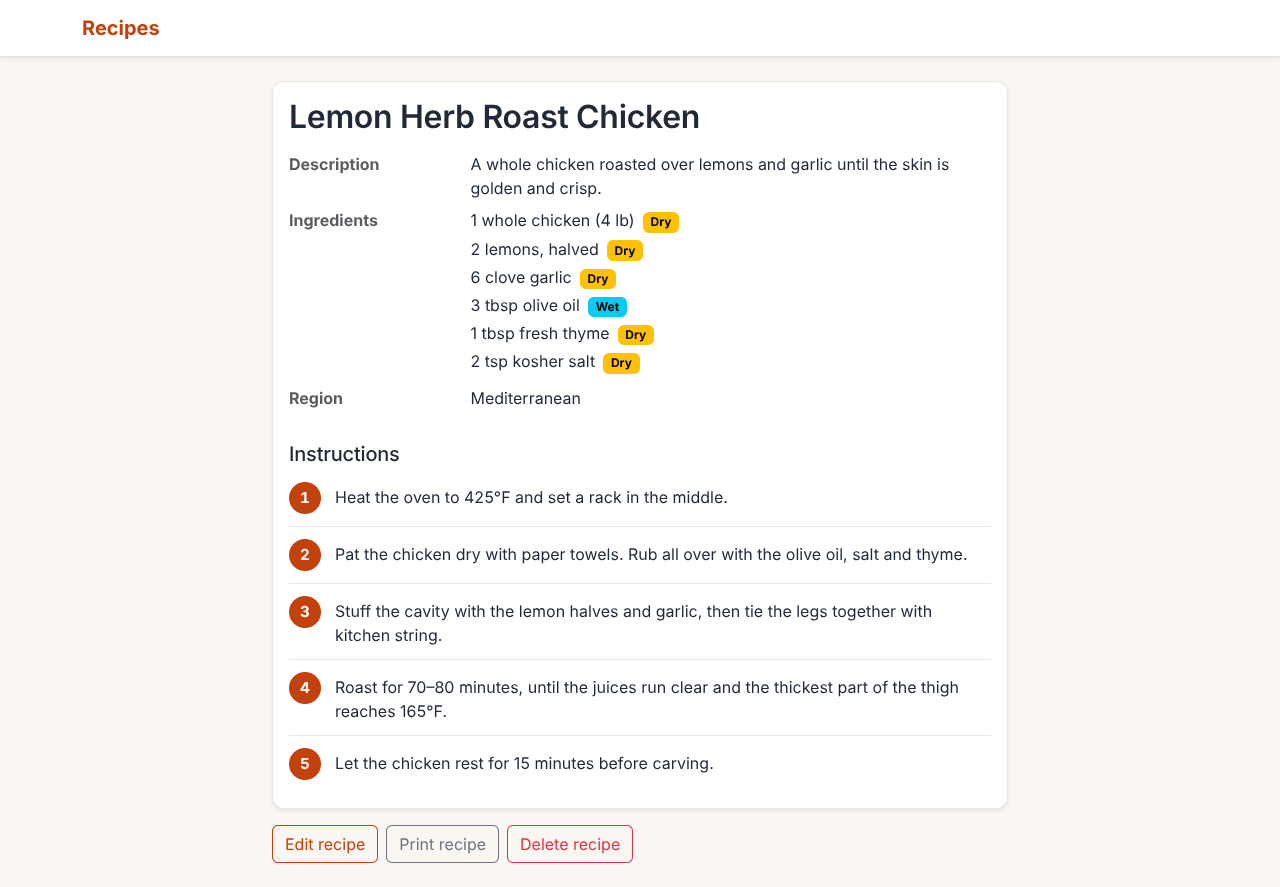
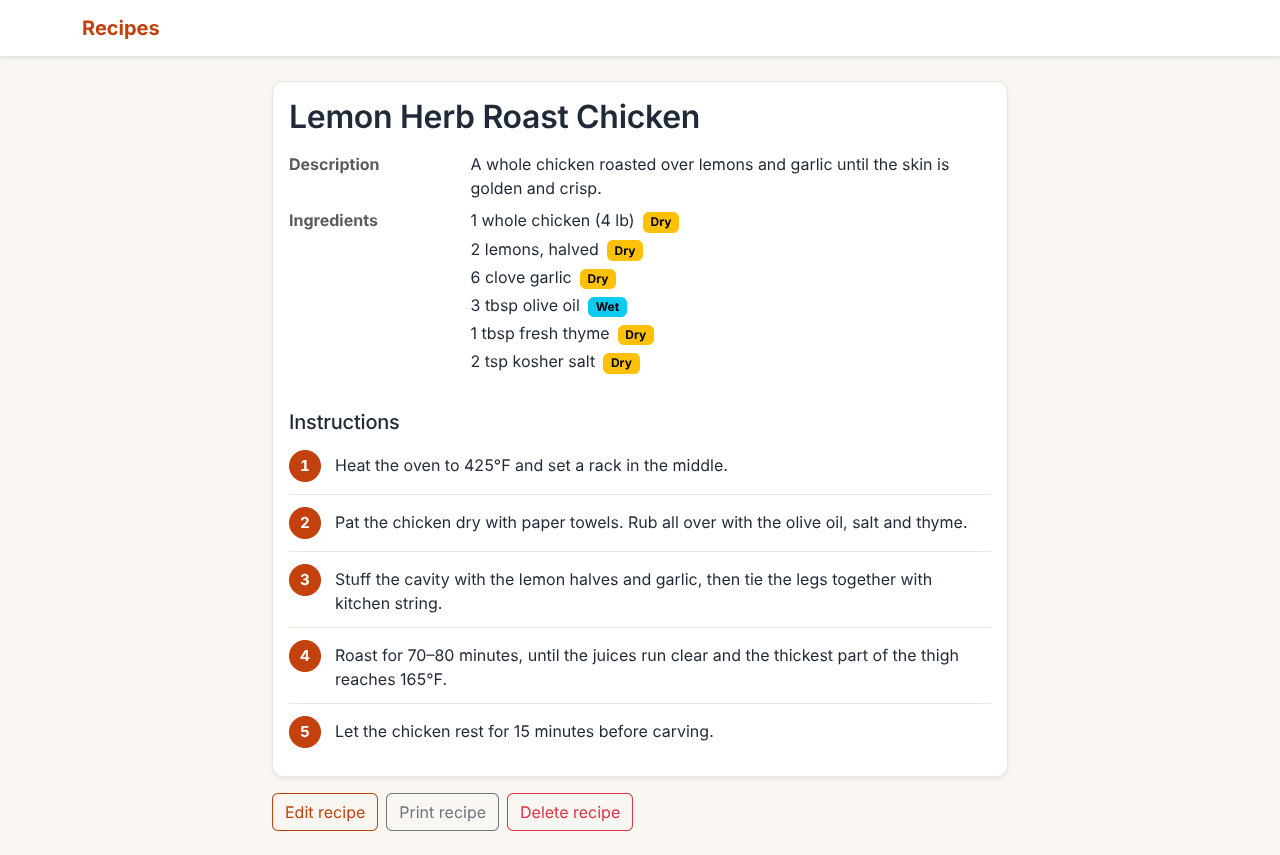
Remove the recipe region field
Region is no longer shown on recipe cards or the recipe page, and is gone
from the add/edit form. Saving a recipe no longer writes the column.

Recipe cards now show the first two lines of the description where the
region used to be.

The region column is left in the database so existing setups keep
working; the README notes how to drop it. README screenshots updated.

Claude-Session: https://claude.ai/code/session_0126EycmWWJfLkJ8pmSgetiX

diff --git a/pages/recipes/[id]/edit.js b/pages/recipes/[id]/edit.js
@@ -13,7 +13,6 @@ export default function EditRecipe({ recipe }) {
   const [recipeDescription, setRecipeDescription] = useState(recipe.description)
   const [recipeIngredients, setRecipeIngredients] = useState(() => ingredientRowsFor(recipe.ingredients))
   const [recipeInstructions, setRecipeInstructions] = useState(() => stepRowsFor(recipe.instructions))
-  const [recipeRegion, setRecipeRegion] = useState(recipe.region)
   const [recipeImagePath, setRecipeImagePath] = useState(recipe.file_path)
   const router = useRouter();
 
@@ -31,8 +30,6 @@ export default function EditRecipe({ recipe }) {
         onIngredientsChange={setRecipeIngredients}
         recipeInstructions={recipeInstructions}
         onInstructionsChange={setRecipeInstructions}
-        recipeRegion={recipeRegion}
-        onRegionChange={(evt) => setRecipeRegion(evt.target.value)}
         onRecipeImageChange={async (evt) => {
           const imageFile = evt.target.files[0]
           if (!imageFile) return
@@ -76,7 +73,6 @@ export default function EditRecipe({ recipe }) {
               description: recipeDescription,
               ingredients: serializeIngredients(recipeIngredients),
               instructions: serializeSteps(recipeInstructions),
-              region: recipeRegion,
               file_path: recipeImagePath,
             })
             .match({

diff --git a/pages/recipes/new.js b/pages/recipes/new.js
@@ -14,7 +14,6 @@ export default function NewRecipe() {
   const [recipeDescription, setRecipeDescription] = useState('')
   const [recipeIngredients, setRecipeIngredients] = useState([])
   const [recipeInstructions, setRecipeInstructions] = useState([''])
-  const [recipeRegion, setRecipeRegion] = useState('')
   const [recipeImagePath, setRecipeImagePath] = useState('')
   const router = useRouter();
   const session = useSession()?.session;
@@ -33,8 +32,6 @@ export default function NewRecipe() {
         onIngredientsChange={setRecipeIngredients}
         recipeInstructions={recipeInstructions}
         onInstructionsChange={setRecipeInstructions}
-        recipeRegion={recipeRegion}
-        onRegionChange={(evt) => setRecipeRegion(evt.target.value)}
         onRecipeImageChange={async (evt) => {
           const imageFile = evt.target.files[0]
           if (!imageFile) return
@@ -76,7 +73,6 @@ export default function NewRecipe() {
               description: recipeDescription,
               ingredients: serializeIngredients(recipeIngredients),
               instructions: serializeSteps(recipeInstructions),
-              region: recipeRegion,
               file_path: recipeImagePath,
               user_id: session.user.id,
             });

diff --git a/components/recipe-form.js b/components/recipe-form.js
@@ -10,8 +10,6 @@ export default function RecipeForm({
   onIngredientsChange,
   recipeInstructions,
   onInstructionsChange,
-  recipeRegion,
-  onRegionChange,
   onRecipeImageChange,
   onSubmit
 }) {
@@ -48,18 +46,6 @@ export default function RecipeForm({
 
       <div className="mb-3">
         <StepList value={recipeInstructions} onChange={onInstructionsChange} />
-      </div>
-
-      <div className="mb-3">
-        <label htmlFor="region" className="form-label">Recipe region</label>
-        <input
-          id="region"
-          name='region'
-          className="form-control"
-          value={recipeRegion}
-          placeholder='Region'
-          onChange={onRegionChange}
-        />
       </div>
 
       <div className="mb-4">

diff --git a/pages/index.js b/pages/index.js
@@ -36,7 +36,7 @@ function RecipeCard({ recipe }) {
           {signedUrl && <img src={signedUrl} className="card-img-top recipe-thumb" alt={recipe.title} />}
           <div className="card-body">
             <h5 className="card-title mb-1">{recipe.title}</h5>
-            {recipe.region && <p className="card-text text-muted small mb-0">{recipe.region}</p>}
+            {recipe.description && <p className="card-text text-muted small mb-0 card-summary">{recipe.description}</p>}
           </div>
         </div>
       </a>

diff --git a/pages/recipes/[id]/index.js b/pages/recipes/[id]/index.js
@@ -50,9 +50,6 @@ export default function ViewRecipe({ recipe }) {
 
                 <dt className="col-sm-3 text-muted">Ingredients</dt>
                 <dd className="col-sm-9"><IngredientsView raw={recipe.ingredients} /></dd>
-
-                <dt className="col-sm-3 text-muted">Region</dt>
-                <dd className="col-sm-9">{recipe.region}</dd>
               </dl>
 
               <h3 className="h5 mt-4 mb-3">Instructions</h3>

diff --git a/styles/globals.css b/styles/globals.css
@@ -76,6 +76,13 @@ a {
   box-shadow: 0 8px 20px rgba(0, 0, 0, 0.08) !important;
 }
 
+.card-summary {
+  display: -webkit-box;
+  -webkit-line-clamp: 2;
+  -webkit-box-orient: vertical;
+  overflow: hidden;
+}
+
 .recipe-thumb {
   height: 180px;
   object-fit: cover;

diff --git a/README.md b/README.md
@@ -10,8 +10,8 @@ A recipe manager built with Next.js and Supabase. Each person signs up, signs in
 - Every recipe belongs to the person who created it. Postgres row level security means nobody else can see, change or delete it.
 
 **Recipes**
-- All your recipes shown as cards with a photo, title and region. Click a card to open the recipe.
-- Create, edit and delete recipes, each with a title, description, region and photo.
+- All your recipes shown as cards with a photo, title and the start of the description. Click a card to open the recipe.
+- Create, edit and delete recipes, each with a title, description and photo.
 - **Photos** are stored in [Supabase Storage](https://supabase.com/docs/guides/storage). Only image files up to 5 MB are accepted. Each upload gets a unique name, and the old photo is removed when it is replaced or its recipe is deleted.
 - **Print** a recipe from its page. Buttons and navigation are left out of the printout, and step numbers print cleanly in black and white.
 
@@ -111,7 +111,7 @@ CREATE TABLE recipes (
 );
 ```
 
-The later files add `user_id`, `file_path` (the photo's path in storage) and `description` columns.
+The later files add `user_id`, `file_path` (the photo's path in storage) and `description` columns. The `region` column is no longer used by the app; it is kept so existing databases keep working, and can be dropped with `alter table recipes drop column region;` if you like.
 
 Ingredients and instructions are stored as JSON in their text columns, so no extra tables are needed:
 
